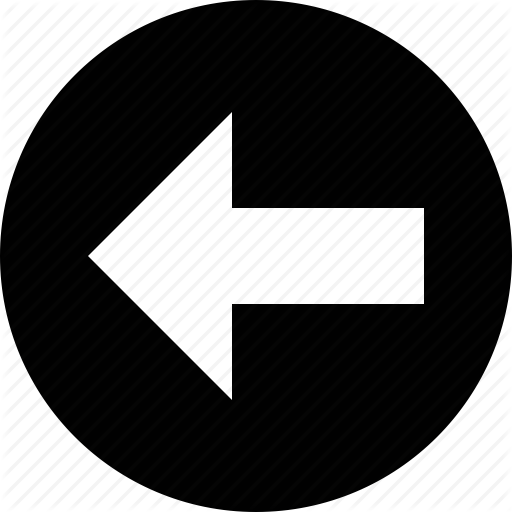
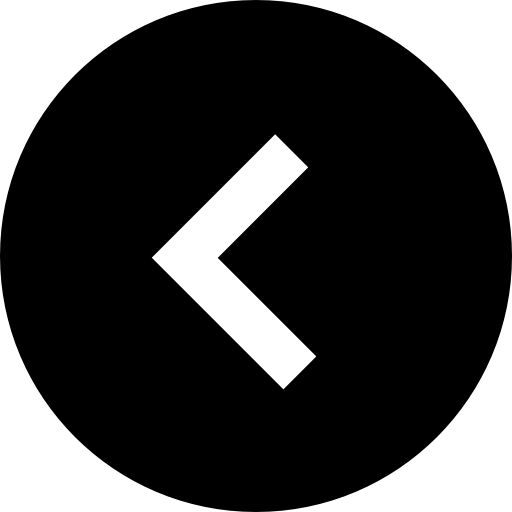
Menu screen finishing, Veg Non Veg Animation

Changed region(s): [[0.1562, 0.2188, 0.8438, 0.7812]]

diff --git a/eatin-ui/eatinbox/src/screens/Food/Header/VegNonVeg.js b/eatin-ui/eatinbox/src/screens/Food/Header/VegNonVeg.js
@@ -5,6 +5,8 @@ import {
     StyleSheet,
     Text,
     TouchableOpacity,
+    TouchableWithoutFeedback,
+    Animated
 } from 'react-native';
 
 export default class ToggleButton extends Component {
@@ -13,43 +15,97 @@ export default class ToggleButton extends Component {
     }
 
     state= {
-        toggle: true
+        toggle: false,
+        animation: new Animated.Value(0),
+        txtValue: 'VEG',
+        bgColor: '#96ff45',
     }
 
-    _onPress = () => {
-        const newState= !this.state.toggle
-        this.setState({toggle: newState})
+    startAnimation = () => {
+        this.setState(
+            (state) => { 
+                const bgColor = state.toggle ? '#96ff45' : 'red'
+                const txtValue = state.toggle ? 'VEG' : 'Both'
+
+                return {  
+                    toggle: !state.toggle,
+                    bgColor,
+                    txtValue,
+                }
+            }, 
+        
+            () => {
+                const value = this.state.toggle ? 17 : 0;
+                Animated.spring(this.state.animation, {
+                    toValue: value,
+                }).start()
+        })
     }
 
     render() {
+        const vegButtonAni = {
+            toggleAni: {
+                transform: [
+                    {
+                        translateX : this.state.animation,
+                    }
+                ]
+            },
 
-        const {toggle} = this.state
-        const textValue= toggle ? "VEG" : ""
-        const buttonBg= toggle ? "green" : "red"
+            buttonBgColor: {
+                backgroundColor: this.state.bgColor,
+            }            
+        }
+
         return (
-            <View style= {{flexDirection: 'column'}}>
+            <View style={styles.container}>
+                <Text style={styles.vegText}>{this.state.txtValue}</Text>
+                <View style={styles.buttonCont}>
+                    <View style={[styles.vegButton, vegButtonAni.buttonBgColor]}>
+                        <TouchableWithoutFeedback onPress={this.startAnimation}>
+                            <Animated.View style={[styles.toggleButtonCont, vegButtonAni.toggleAni]}>
 
-            <Text style= {{
-                fontSize: 10, 
-                fontWeight: 'bold',
-                }}>
-
-               {textValue}
-            </Text>
-
-                <TouchableOpacity
-                    style= {{
-                        width: 23,
-                        height: 13,
-                        borderRadius: 12,
-                        justifyContent: 'center',
-                        alignItems: 'center',
-                        backgroundColor: buttonBg
-                    }}
-                    onPress= {() => this._onPress()}
-                >
-                </TouchableOpacity>
+                            </Animated.View>
+                        </TouchableWithoutFeedback>
+                    </View>
+                </View>
             </View>
         );
     }
 }
+
+const styles = StyleSheet.create({
+    container: {
+        flexDirection: 'column',
+        borderWidth:0,
+    },
+
+    vegText: {
+        fontSize: 8,
+        color: '#000', 
+        fontWeight: 'bold',
+        borderWidth:0,
+        textAlign: 'center',
+    },
+
+    buttonCont:{
+        borderWidth:0,
+    },
+
+    vegButton: {
+        width: 35,
+        height: 17,
+        borderWidth:0,
+        borderRadius: 17,
+        backgroundColor: '#96ff45',
+    },
+
+    toggleButtonCont:{
+        borderWidth:1,
+        width:17,
+        height:17,
+        borderRadius:17,
+        backgroundColor: '#fff',
+
+    }
+});

diff --git a/eatin-ui/eatinbox/src/screens/Food/Header/BrowseHeader.js b/eatin-ui/eatinbox/src/screens/Food/Header/BrowseHeader.js
@@ -5,75 +5,61 @@ Text,
 Image,
 StyleSheet
  } from 'react-native';
- import ToggleButton from './VegNonVeg';
+ import VegNonVeg from './VegNonVeg';
 
  const BrowseHeader = () => (
-    <View style= {styles.container}>
-    
-    <Text style= {styles.browseText}> SORT </Text>
-    
-    <Text style= {styles.browseText1}> FILTER </Text>
-    
-    <View style= { styles.vegBox }>
-            <ToggleButton />
-    </View>
-    </View>
+     <View style={styles.container}>
+         <Text style={styles.sortText}> SORT </Text>
+         <Text style={styles.filterText}> FILTER </Text>
+         <View style={styles.vegBox}>
+             <VegNonVeg />
+         </View>
+     </View>
  );
  
 const styles = StyleSheet.create({
     container:{
         width: '100%',
-        height: 45,
+        height: 40,
+        marginTop: 15,
         flexDirection: 'row',
         backgroundColor: '#fff',
-        // paddingBottom: 5,
-        // paddingTop: 5,
         borderWidth: 0,
+        borderBottomWidth: 0.7,
+        borderBottomColor: '#d6d6d6',
         justifyContent: 'center',
         alignItems: 'center',
-        elevation: 1
     },
 
-    browseText:{
+    sortText:{
+        flex:1,
+        letterSpacing: 0.4,
         width: '33%',
-        fontSize: 16,
-        fontWeight: '500',
-        color: '#000',
-        // marginRight: 5,
-        // marginLeft: 15,
-        padding: 5
+        fontSize: 14.2,
+        fontWeight: 'bold',
+        color: '#2f2f2f',
+        borderWidth:0,   
+        textAlign: 'center',
     },
 
-    browseText1:{
+    filterText:{
+        flex:1,
         width: '33%',
-        fontSize: 16,
-        fontWeight: '500',
-        color: '#000',
-        // marginRight: 5,
-        // marginLeft: 15,
-        padding: 5
+        fontSize: 14.2,
+        fontWeight: 'bold',
+        color: '#2f2f2f',
+        borderWidth:0,
+        textAlign: 'center',
     },
-
-    filterIcon:{
-        width: 25,
-        height: 25
-    },
-
-    filterBox: {
-        alignItems: 'center',
-        justifyContent: 'center',
-        borderWidth: 0,
-        marginLeft: 8,
-        marginRight: 8
-    },
-    
 
     vegBox: {
+        flex:1,
+        width: '33%',
+        height: '100%',
         flexDirection: 'column',
         alignItems: 'center',
         justifyContent: 'center',
-        marginLeft: 8,
-        marginRight: 8,
+        borderWidth: 0,
     },
 })
 

diff --git a/eatin-ui/eatinbox/src/screens/Food/Header/EIBHeader.js b/eatin-ui/eatinbox/src/screens/Food/Header/EIBHeader.js
@@ -26,11 +26,11 @@ export default class EIBHeader extends Component{
       return ( 
       <View style= {styles.container}>
 
-        <View style = {styles.cartBox}>
+        <View style = {styles.backCont}>
             <TouchableOpacity
                 onPress = {this.backButton}
             >
-            <Image source={require('../../../assets/cart.png')} style={styles.cartIcon}/>
+            <Image source={require('../../../assets/back.png')} style={styles.cartIcon}/>
             </TouchableOpacity>
         </View>
 
@@ -38,7 +38,7 @@ export default class EIBHeader extends Component{
             EAT IN BOX
         </Text>
 
-        <View style = {styles.cartBox1}>
+        <View style = {styles.cartBox}>
             <Image source={require('../../../assets/cart.png')} style={styles.cartIcon}/>
         </View>
             
@@ -49,44 +49,32 @@ export default class EIBHeader extends Component{
 
 const styles= StyleSheet.create({
     container: {
-        height: 40,
-        width: '95%',
-        marginTop: 15,
+        width: '100%',
+        marginTop: 10,
         flexDirection: 'row',
-        justifyContent: 'center',
+        justifyContent: 'space-between',
         alignItems: 'center',
         backgroundColor: '#fff',
-        // borderWidth: 1,
+        borderWidth: 0,
+    },
+
+    backCont:{
+        alignItems: 'center',
+        borderWidth:0,
+        marginLeft: 10,
     },
 
     textBox: {
-        width: '70%',
         fontSize: 21,
         color: '#000',
         fontWeight: 'bold',
         textAlign: 'center',
+        borderWidth:0,
     },
 
     cartBox:{
-        width: '15%',
-        alignItems: 'center',
-        flexDirection: 'row',
-        justifyContent: 'flex-start',
-        paddingLeft: 10,
-        paddingRight:5,
-        // backgroundColor: '#ddd',
-        marginRight: 8,
-    },
-
-    cartBox1:{
-        width: '15%',
-        alignItems: 'center',
-        flexDirection: 'row',
-        justifyContent: 'flex-start',
-        paddingLeft: 10,
-        paddingRight:5,
-        // backgroundColor: '#ddd',
-        marginLeft: 8
+        marginRight: 10,
+        borderWidth:0,
     },
 
     cartIcon:{

diff --git a/eatin-ui/eatinbox/src/screens/Food/Header/LocationHeader.js b/eatin-ui/eatinbox/src/screens/Food/Header/LocationHeader.js
@@ -35,24 +35,29 @@ const styles = StyleSheet.create({
     container:{
         width: '95%',
         flexDirection: 'row',
-        height: 40,
+        borderWidth: 0,
         justifyContent: 'center',
-        // marginBottom: 3,
-        // marginTop: 3
     },
 
     inputBox:{
+        marginTop: 10,
         width: '100%',
         flexDirection: 'row',
         borderWidth: 0,
         alignItems: 'center',
-        backgroundColor: '#DCDCDC',
-        // height: 30
+        backgroundColor: '#f8f8f8',
     },
 
     inputContainer:{
         width: '80%',
-        // height: 40,
+        borderWidth:0,
+        height: 25,
+        fontSize: 12,
+        letterSpacing: 0.3,
+        fontWeight: 'bold',
+        textAlignVertical: 'center',
+        padding: 0,
+        paddingLeft: 8,
         borderColor: "gray",
         marginLeft: 10
     },
@@ -69,7 +74,7 @@ const styles = StyleSheet.create({
         justifyContent: 'center',
         alignContent: 'center',
         borderColor: '#aa9',
-         borderRightWidth: 1,
+        borderRightWidth: 1,
     },
 
     cartBox:{

diff --git a/eatin-ui/eatinbox/src/screens/Food/Foodlist.js b/eatin-ui/eatinbox/src/screens/Food/Foodlist.js
@@ -34,9 +34,9 @@ class Foodlist extends Component {
     render() {
         return (
             <View style={styles.container}>
-                <OverlayLoading
+                {/* <OverlayLoading
                     visible={this.props.visible}
-                />
+                /> */}
                 <FlatList
                     // contentContainerStyle={styles.container}
                     // keyExtractor={(item) => toString(item.pk)}

diff --git a/eatin-ui/eatinbox/src/screens/Food/MenuScreen.js b/eatin-ui/eatinbox/src/screens/Food/MenuScreen.js
@@ -10,7 +10,6 @@ import BrowseHeader from './Header/BrowseHeader';
 import Foodlist from './Foodlist';
 import EIBHeader from './Header/EIBHeader';
 import MealType from './Header/TypeMeal';
-import { TouchableOpacity } from 'react-native-gesture-handler';
 
 const width = Dimensions.get('window').width
 
